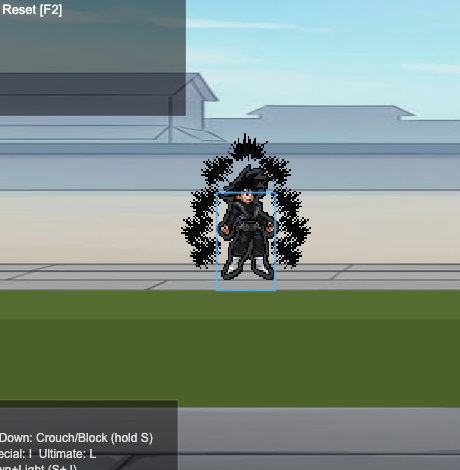
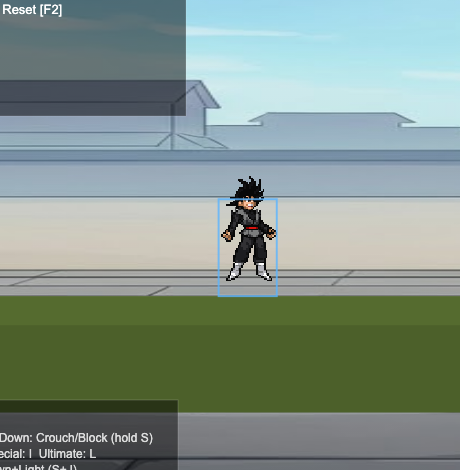
Goku Black charge polish + SSJ Rose handoff fix + universal sequential intros
Four items:

1) CHARGE TOO FAST: slow both charge animations speed 5 → 8 (base + Rose).

2) SSJ ROSE CHARGE GLITCH: the rose source sheet packs a calm+ignition PAIR into
   one aura-bridged alpha-segment (no zero-alpha gutter), so the first slice merged
   them into one cell → character rendered doubled/offset at the ignition frame.
   Re-sliced splitting wide segments at internal body-occupancy valleys (rose is
   actually 9 frames, not 8; width 112, loopStart 4) and feet-centroid aligned so
   asymmetric-aura frames don't shift the character. Base is genuinely 6 frames.

3) "4 COPIES" AT CINEMATIC HANDOFF: at the SSJ Rose form-swap, _skinAnim becomes
   SSJ_ROSE_ANIM (no "transform" strip) but the caster still resolved action
   "transform" via the held cast pose (frames 48-72) and teleportFlash>10 (control
   return) → the missing action fell back to the idle sheet drawn UNSLICED = ~4
   copies. Fix: gate _resolveAction's teleportFlash→transform on the active anim
   set having a transform strip (universal); clear the morph cast pose + isCharging
   at the form-swap in the cinematic. Traced clean via goku_black_handoff.test.mjs.

4) SEQUENTIAL INTROS (universal): startMatch set both fighters' _introPlaying true
   at once (overlapping). New introStage machine plays P1's intro fully, THEN P2's;
   BATTLE gated on both done. Match-start only (round 2+/FFA never enter INTRO).
   Preserves per-character rotation (Sasuke pool, Toji introSequence). toji_motion
[…]

diff --git a/game.js b/game.js
@@ -1270,6 +1270,22 @@ function advanceIntroSequence(fighter) {
   fighter._introSeqTimer = introStepFrames(fighter, fighter._introVariant)
 }
 
+// SEQUENTIAL pre-match intros (P1 fully, THEN P2). `introStage` walks "p1" → "p2" → "done"; only the
+// active side's _introPlaying is on, so the two intros never overlap. Total play time per side =
+// its intro length (a fixed-order introSequence sums its steps; a single-variant intro is one action),
+// floored so a very short intro isn't a blink. initIntroVariant must have run first (sets _introSeq/_introVariant).
+const INTRO_MIN_FRAMES = 54   // ~0.9s minimum per side so even a 1-frame intro reads
+let introStage = "done"
+let introStageTimer = 0
+function introTotalFrames(fighter) {
+  if (!fighter) return 0
+  const seq = fighter._introSeq
+  const total = (Array.isArray(seq) && seq.length)
+    ? seq.reduce((s, a) => s + introStepFrames(fighter, a), 0)   // fixed-order sequence: sum all steps
+    : introStepFrames(fighter, fighter._introVariant || "transform")
+  return Math.max(total, INTRO_MIN_FRAMES)
+}
+
 // ── PRE-MATCH CHARACTER ANNOUNCEMENT ──────────────────────────────────────────
 // Runs inside the existing round-1 INTRO phase (so it's first-round-only, matching
 // the intro convention): zoom on P1 then P2, playing each side's name-call clip if
@@ -1360,8 +1376,13 @@ function startMatch() {
   // initIntroVariant handles Toji's fixed-order introSequence AND falls back to
   // pickIntroVariant (random from introPool) for everyone else — so Sasuke's 3-intro
   // random cycle is preserved unchanged while Toji's two-part sequence is set up.
+  // SEQUENTIAL: start ONLY P1's intro now; P2's begins after P1's completes (see the INTRO
+  // stage machine in updateCurrentState). P2 stands idle until its turn.
   if (p1) { p1._introPlaying = true; initIntroVariant(p1) }
-  if (p2) { p2._introPlaying = true; initIntroVariant(p2) }
+  if (p2) { p2._introPlaying = false }
+  introStage      = p1 ? "p1" : (p2 ? "p2" : "done")
+  introStageTimer = p1 ? introTotalFrames(p1) : (p2 ? introTotalFrames(p2) : 0)
+  if (!p1 && p2) { p2._introPlaying = true; initIntroVariant(p2) }
 
   sound.stopMusic?.()
   sound.playStageTrack?.(matchConfig.selectedStage)
@@ -3789,10 +3810,19 @@ function updateCurrentState() {
 
   switch (gameState) {
     case GAME_STATES.INTRO:
-      // Step any fixed-order intro sequence (Toji walk-in → ready-up) every intro frame,
-      // during namecall AND the countdown window, so both parts play in order.
-      if (p1 && p1._introPlaying) advanceIntroSequence(p1)
-      if (p2 && p2._introPlaying) advanceIntroSequence(p2)
+      // SEQUENTIAL intro stage machine: P1 plays its full intro, THEN P2's begins. Only the active
+      // side advances; the other holds idle. Runs every intro frame (during namecall AND after).
+      if (introStage === "p1") {
+        if (p1 && p1._introPlaying) advanceIntroSequence(p1)
+        if (--introStageTimer <= 0) {
+          if (p1) p1._introPlaying = false
+          if (p2) { p2._introPlaying = true; initIntroVariant(p2); introStage = "p2"; introStageTimer = introTotalFrames(p2) }
+          else introStage = "done"
+        }
+      } else if (introStage === "p2") {
+        if (p2 && p2._introPlaying) advanceIntroSequence(p2)
+        if (--introStageTimer <= 0) { if (p2) p2._introPlaying = false; introStage = "done" }
+      }
       if (namecallActive) {
         // Announcement phase: hold each side's zoom, then advance to the next mapped
         // side; when done, ease the camera back to normal framing. The VS-banner /
@@ -3802,7 +3832,9 @@ function updateCurrentState() {
           if (namecallIndex < namecallBeats.length) startNamecallBeat(namecallIndex)
           else { namecallActive = false; if (camera.focusBetween && p1 && p2) camera.focusBetween(p1, p2, 0.85) }
         }
-      } else {
+      } else if (introStage === "done") {
+        // Both intros have played out sequentially (and namecall, if any, finished) — run the small
+        // settle buffer, then start the fight.
         matchIntroTimer--
         if (matchIntroTimer <= 0) {
           gameState = GAME_STATES.BATTLE; countdown = ROUND_START_COUNTDOWN
@@ -4214,6 +4246,9 @@ gameLoop()
       active: namecallActive, index: namecallIndex, timer: namecallTimer,
       beats: namecallBeats.map(b => ({ side: b.side, roster: b.fighter?.rosterKey ?? null, clip: b.clip }))
     }),
+    // Sequential pre-match intro introspection: which side is currently playing its intro (only one at
+    // a time), the stage machine state, and each side's chosen variant. Used by the intro-sequencing test.
+    introState: () => ({ stage: introStage, gameState, p1Playing: !!p1?._introPlaying, p2Playing: !!p2?._introPlaying, p1Variant: p1?._introVariant ?? null, p2Variant: p2?._introVariant ?? null }),
     // Active summons (Meeseeks no-cap test): id/owner-side/pos/frame + whether it's past its spawn beat.
     summons: () => activeSummons.map(s => ({ id: s.id, ownerSide: s.owner?.side ?? null, x: s.x, y: s.y, vx: s.vx, frame: s.frame, hasHit: !!s.hasHit, lifetime: s.lifetime })),
     resetUlt:   () => { if (p1) { p1.ultimateCooldown = 0; p1.energy = p1.maxEnergy; p1.attackCooldown = 0 } },   // clear ult lockout for back-to-back ultimate tests
@@ -4323,6 +4358,9 @@ gameLoop()
         if (p1.spriteHandler) { p1.spriteHandler.currentAction = null; p1.spriteHandler.frameIndex = 0; p1.spriteHandler.frameTimer = 0; p1.spriteHandler.locked = false }
       }
       if (p2) p2._introPlaying = false
+      // Hold this single forced intro open: mark the sequential stage machine "done" so it neither
+      // auto-advances P1 off nor starts P2 (this hook drives one side's intro-rotation coverage).
+      introStage = "done"
     }
   }
 })()

diff --git a/abilities.js b/abilities.js
@@ -2737,9 +2737,10 @@ const SSJ_ROSE_ANIM = {
   knockdown: { frames: 6, width: 71,  height: 60, speed: 6, anchorY: 0, sheet: "./goku_black_ssj_rose_get_up.png" },
   guard:     { frames: 3, width: 46,  height: 54, speed: 6, anchorY: 0, sheet: "./goku_black_ssj_rose_gaurd.png" },
   // CHARGE (hold P) — ROSE aura (form-aware: replaces the base black_goku_power_up aura). Two-part:
-  // buildup frames 0-2 (brace + magenta ignition) play ONCE, then frames 3-7 (sustained pink oval
-  // pulsing) LOOP while P is held (loopStart=3). RE-SLICED uniform from goku_black_ssj_rose_charge.png (8 frames).
-  charge:    { frames: 8, width: 129, height: 97, speed: 5, anchorY: 0, loop: true, loopStart: 3, sheet: "./goku_black_ssj_rose_charge_uniform.png" },
+  // buildup frames 0-3 (3 brace frames + magenta ignition) play ONCE, then frames 4-8 (sustained pink
+  // oval pulsing + sparse) LOOP while P is held (loopStart=4). RE-SLICED uniform (9 frames, feet-aligned;
+  // the source packs a calm+ignition pair into one aura-bridged cell — split at the body valley).
+  charge:    { frames: 9, width: 112, height: 97, speed: 8, anchorY: 0, loop: true, loopStart: 4, sheet: "./goku_black_ssj_rose_charge_uniform.png" },
   light:     { frames: 6, width: 65,  height: 56, speed: 3, anchorY: 0, sheet: "./goku_black_ssj_rose_foward_attack.png" },
   heavy:     { frames: 8, width: 108, height: 68, speed: 2, anchorY: 0, sheet: "./goku_black_ssj_rose_ki_slash.png" },   // Ki Slash (Rose)
   up:        { frames: 4, width: 43,  height: 62, speed: 3, anchorY: 0, sheet: "./goku_black_ssj_rose_up_attack.png" },

diff --git a/ssjRoseCinematic.js b/ssjRoseCinematic.js
@@ -63,6 +63,10 @@ export function activateSSJRoseCinematic(caster, opponent, onResolve) {
   caster._spriteCastMove  = "transform"
   caster._spriteCastTimer = T_TOTAL + 8
   caster.attacking = false
+  // Combat is frozen for the whole beat, so per-frame state resets (updateFighterState) don't run —
+  // clear isCharging now so a charge pose held into the transform doesn't get stuck as the resolve-phase
+  // pose after the morph cast is dropped at form-swap. (Post-cinematic the normal reset resumes.)
+  caster.isCharging = false
   return true
 }
 
@@ -125,6 +129,11 @@ export function updateSSJRoseCinematic(ctx = {}) {
   if (f >= T_MORPH_END && !cine.resolved) {
     cine.resolved = true
     try { cine.onResolve?.() } catch (_) {}
+    // The base→Rose MORPH ("transform") pose is finished and onResolve just swapped _skinAnim to the
+    // Rose set — which has NO "transform" strip. Holding the cast pose any longer would resolve to a
+    // missing action → the fallback draws the idle sheet UNSLICED (the "4 copies" glitch) through the
+    // fading RESOLVE overlay. Drop it now so the resolve phase shows the clean Rose idle.
+    if (cine.caster) { cine.caster._spriteCastMove = null; cine.caster._spriteCastTimer = 0 }
     try { snd?.play?.(SFX.HIT_HEAVY) } catch (_) {}
   }
 

diff --git a/sprite.js b/sprite.js
@@ -244,7 +244,14 @@ function _resolveAction(fighter, currentAction = "idle") {
 
   // Ultimate / transform states
   if (fighter.isUltimateActive) return "idle";
-  if ((fighter.teleportFlash || 0) > 10) return "transform";
+  // teleportFlash requests the "transform" morph strip — but ONLY if the fighter's ACTIVE anim set
+  // (skin if one is applied, else base) actually HAS a transform strip. Otherwise it resolves to a
+  // missing action → the fallback draws the idle sheet UNSLICED as one oversized cell (the "4 copies"
+  // glitch). This bites right at the SSJ Rose cinematic→gameplay handoff: onResolve swaps _skinAnim to
+  // SSJ_ROSE_ANIM (which has no transform) but leaves teleportFlash>10, so control returns on a bogus
+  // "transform". Gating here mirrors every other branch (guard/knockdown/hurt_air) that checks the strip exists.
+  const activeAnim = fighter._skinAnim || fighter.animationData;
+  if ((fighter.teleportFlash || 0) > 10 && activeAnim?.transform) return "transform";
 
   // Air state
   const grounded = fighter.grounded ?? fighter.onGround ?? false;

diff --git a/characters.js b/characters.js
@@ -1646,7 +1646,7 @@ const gokuBlack = {
     // CHARGE (hold P) — BASE aura. Two-part: buildup frames 0-1 (bracing, no aura) play ONCE, then
     // frames 2-5 (spiky aura pulsing) LOOP while P is held (loopStart=2). Rose variant lives in
     // SSJ_ROSE_ANIM (form-aware via _skinAnim). RE-SLICED uniform from black_goku_power_up.png (6 frames).
-    charge:    { frames: 6, width: 112, height: 104, speed: 5, anchorY: 0, loop: true, loopStart: 2, sheet: "./black_goku_power_up_uniform.png" },
+    charge:    { frames: 6, width: 112, height: 104, speed: 8, anchorY: 0, loop: true, loopStart: 2, sheet: "./black_goku_power_up_uniform.png" },
     // Special CHARGE→RELEASE cast poses (Stage 3a) — BASE variants (Rose variants live in abilities.js
     // SSJ_ROSE_ANIM; _skinAnim makes the pose form-aware automatically). RE-SLICED uniform.
     gbKamehameha: { frames: 10, width: 95, height: 53, speed: 4, anchorY: 0, sheet: "./black_goku_kamehameha.png" },
